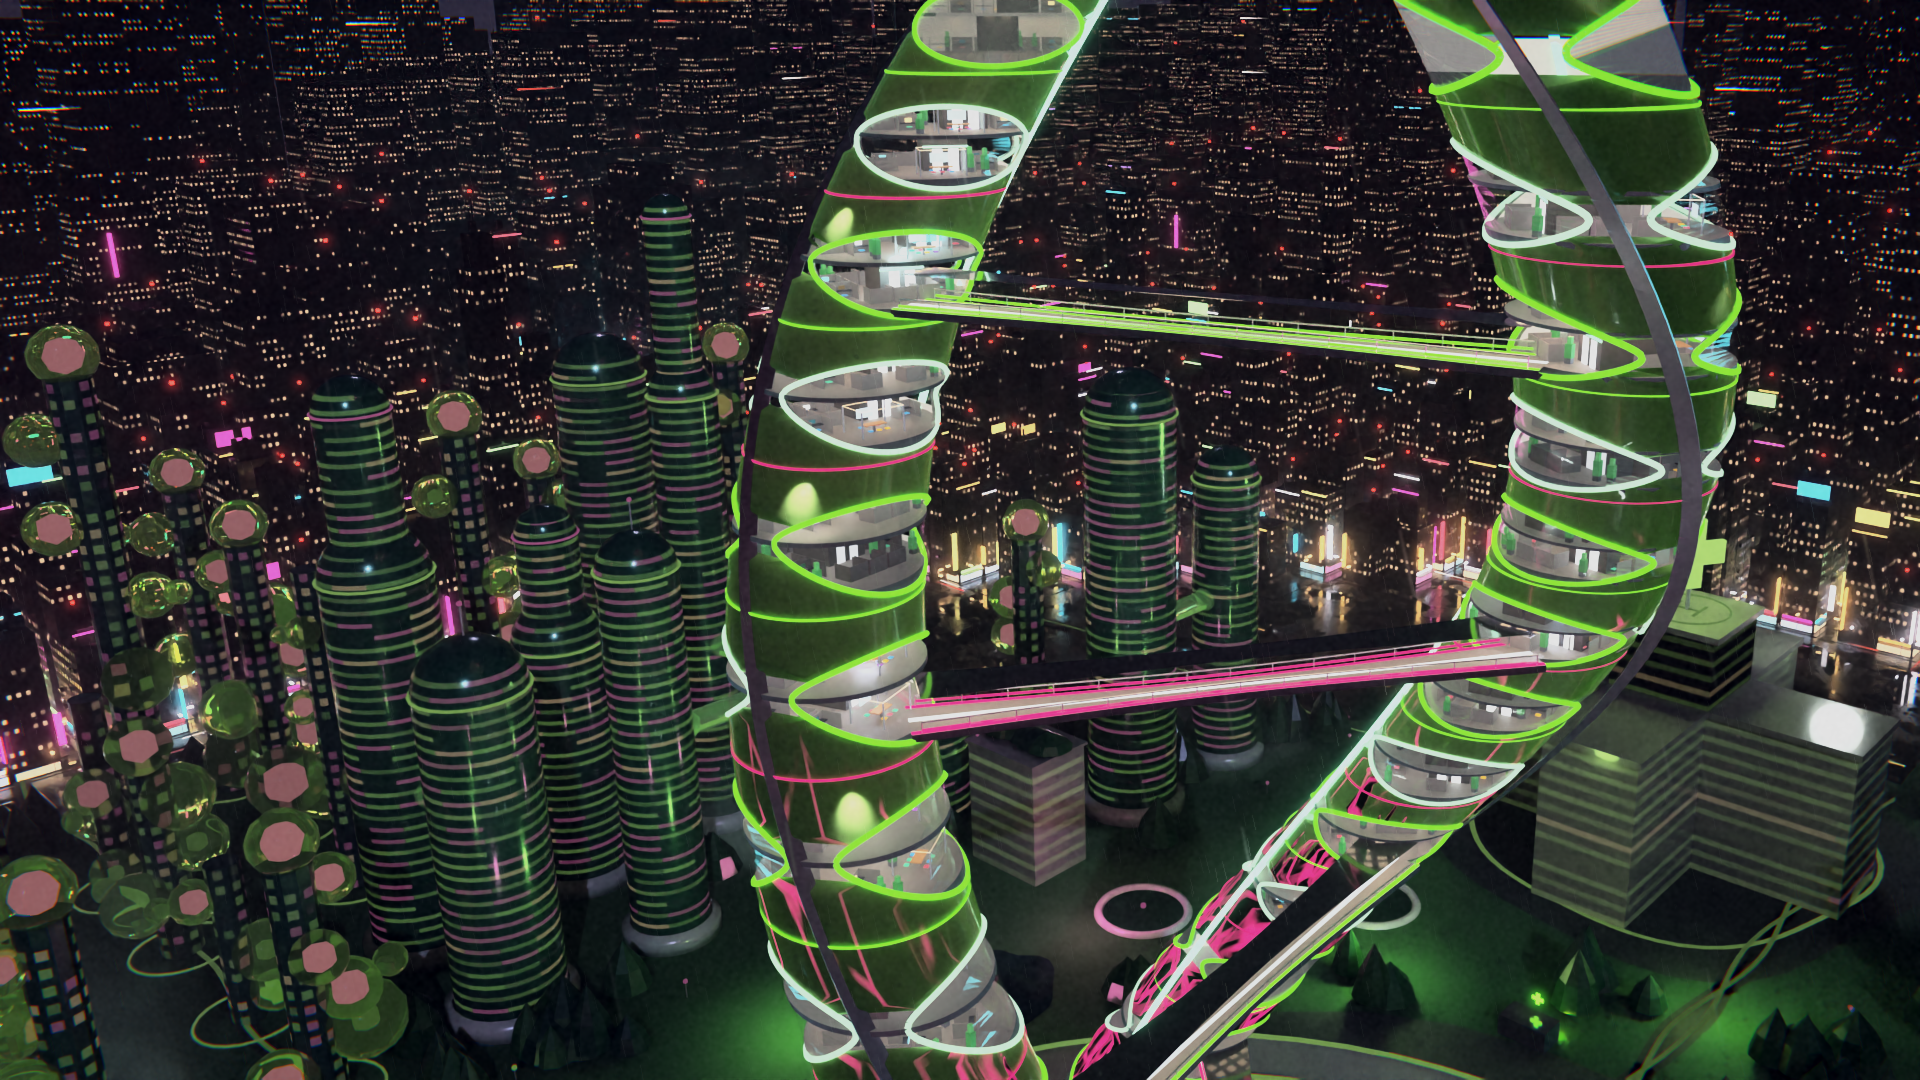
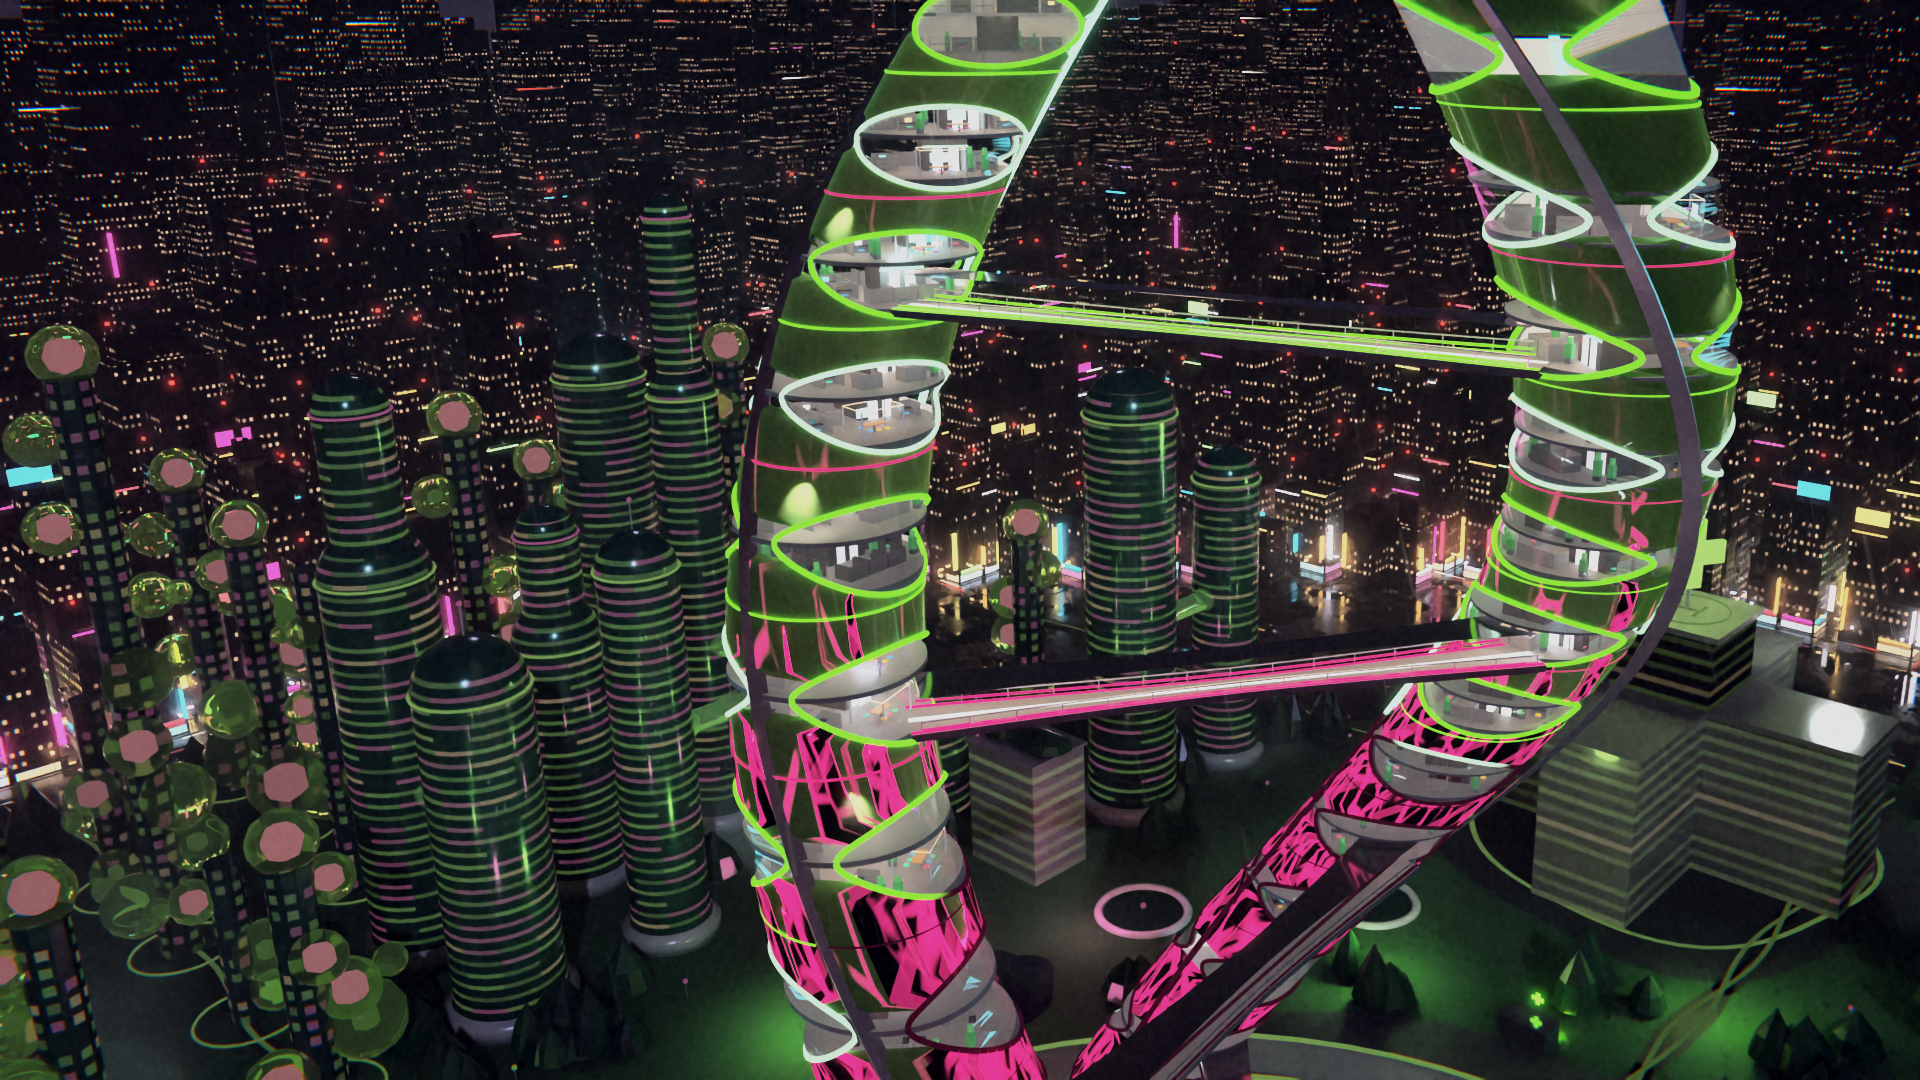
Solace THE BLOOM v2 A in 3D: HQ row redone (plum-black strand below the front, lime rings die, hot hairline); sheet rebuilt

diff --git a/docs/concepts/solace_vertical/bloom/scripts/hq3d/bloom3d_hq_run.py b/docs/concepts/solace_vertical/bloom/scripts/hq3d/bloom3d_hq_run.py
@@ -37,13 +37,20 @@ def front_floor(layer):
     return RF[i] + (RF[i + 1] - RF[i]) * (layer - 1 - i)
 
 
+def st_bias(state):
+    """Decision frame: the front is lifted 10 BU so the near strand shows it in the lower third (rev 2)."""
+    return 28.0 if state == "decision" else 0.0
+
+
 def cfg_for(state, tune=None):
     nm, ff, gap = STATES[state]
     if ff is None:
         ff = front_floor(3 - gap)
-    cfg = dict(z_front=G.floor_z(ff) + 0.5 * G.FH, floor=ff, gap=gap, seed=7, tube_r=G.RT, swell=4.5, tongue=26.0, reach=45.0, ahead=1.0, stair_phi_A=G.stair_phi("A"),
-               stair_phi_B=G.stair_phi("B"), vscale=0.24, vw=0.06, ew=0.22, hatch_k=0.12, veins=1.0, edge=1.2, hatch=0.15, cover_k=0.94,
-               plum=[0.05, 0.02, 0.04], pink=[1.0, 0.0612, 0.305], podium=G.PODIUM_H, win_dim=0.12, win_r=30.0, win_bias=0.0)
+    cfg = dict(z_front=G.floor_z(ff) + 0.5 * G.FH, floor=ff, gap=gap, seed=7, tube_r=G.RT, swell=4.5, tongue=40.0, reach=45.0, ahead=1.0, stair_phi_A=G.stair_phi("A"),
+               stair_phi_B=G.stair_phi("B"), vscale=0.24, vw=0.065, ew=0.5, hatch_k=0.12, veins=1.5, edge=14.0, hatch=0.2, cover_k=0.94,
+               plum=[0.03, 0.012, 0.024], pink=[1.0, 0.0612, 0.305], podium=G.PODIUM_H, win_dim=0.03, win_r=48.0, win_bias=0.0)
+    if st_bias(state):
+        cfg["z_front"] += st_bias(state)
     if tune:
         cfg.update(tune)
     return cfg

diff --git a/docs/concepts/solace_vertical/bloom/scripts/hq3d/bloom3d_hq.py b/docs/concepts/solace_vertical/bloom/scripts/hq3d/bloom3d_hq.py
@@ -164,7 +164,7 @@ def _win_dim():
     b.link(geo.outputs["Position"], sp.inputs[0])
     X, Y, Z = sp.outputs["X"], sp.outputs["Y"], sp.outputs["Z"]
     rad = b.m("SQRT", b.m("ADD", b.m("MULTIPLY", X, X), b.m("MULTIPLY", Y, Y)))
-    on_helix = b.m("MULTIPLY", b.m("LESS_THAN", rad, float(BL.get("win_r", 30.0))), b.m("GREATER_THAN", Z, float(BL["podium"]) + 0.3))
+    on_helix = b.m("MULTIPLY", b.m("LESS_THAN", rad, float(BL.get("win_r", 30.0))), b.m("GREATER_THAN", Z, float(BL["podium"]) + 2.0))
     oi = b.n("ShaderNodeObjectInfo")
     not_room = b.m("GREATER_THAN", b.m("ABSOLUTE", b.m("SUBTRACT", oi.outputs["Object Index"], 5.0)), 0.5)
     # azimuth-dependent front, the same swell as the skin (A and B are 180 degrees apart, so one swell serves the helix)
@@ -176,7 +176,7 @@ def _win_dim():
     em.inputs["Color"].default_value = tuple(BL["pink"]) + (1,)
     em.inputs["Strength"].default_value = float(BL.get("win_dim", 0.10))
     mix = b.n("ShaderNodeMixShader")
-    b.link(b.m("MULTIPLY", fac, 0.92), mix.inputs["Fac"])
+    b.link(fac, mix.inputs["Fac"])
     b.link(gi.outputs[0], mix.inputs[1])
     b.link(em.outputs[0], mix.inputs[2])
     b.link(mix.outputs[0], go.inputs[0])

diff --git a/docs/concepts/solace_vertical/bloom/NOTES.md b/docs/concepts/solace_vertical/bloom/NOTES.md
@@ -73,3 +73,7 @@ Render times: street finals 428 s (CREEPING), 269 s (CLOSE), 1795 s (CATCHING, G
 Rebuild: `street3d/bloom3d_street.py run finals <STATE> 1920 48` then `plate <STATE> F_dec_closed`; `hq3d/bloom3d_hq_run.py b3d overview decision clean_overview clean_decision`;
 `bloom3d_raid_run.py 20,60,90`; `bloom3d_strip.py`; `bloom3d_sheet.py`. Scratch `D:/rc_scratch/solace_v1/bloom3d/`.
 Port notes: the field is pure position/attribute math (no textures), so it maps to a Godot spatial shader on world position (street, raid) and on a (z, phi) vertex attribute or UV (helix).
+
+### HQ revision 2 (review: HQ row failed the squint test)
+Body plum-black (0.03/0.012/0.024), veins 1.5 (vw 0.065), hot front hairline edge 14 (ew 0.5), tongues 40 BU; below the front ALL helix emission dies to dim pink: the window-dim wrap now covers helix radius < 48 (frame rings, rungs, floor rings sit outside radius 30) and is fully applied (fac 1.0, strength 0.03). Decision front lifted 28 BU (about 2 floors) over the overview rule so the near strand shows it in the lower third; route-room (index 5) emission, window holes and the UP stair band stay clean.
+Medians: overview 0.1226 (clean 0.1230), decision 0.1385 (clean 0.1474, -0.0089). Finals 80 s / 135 s.
